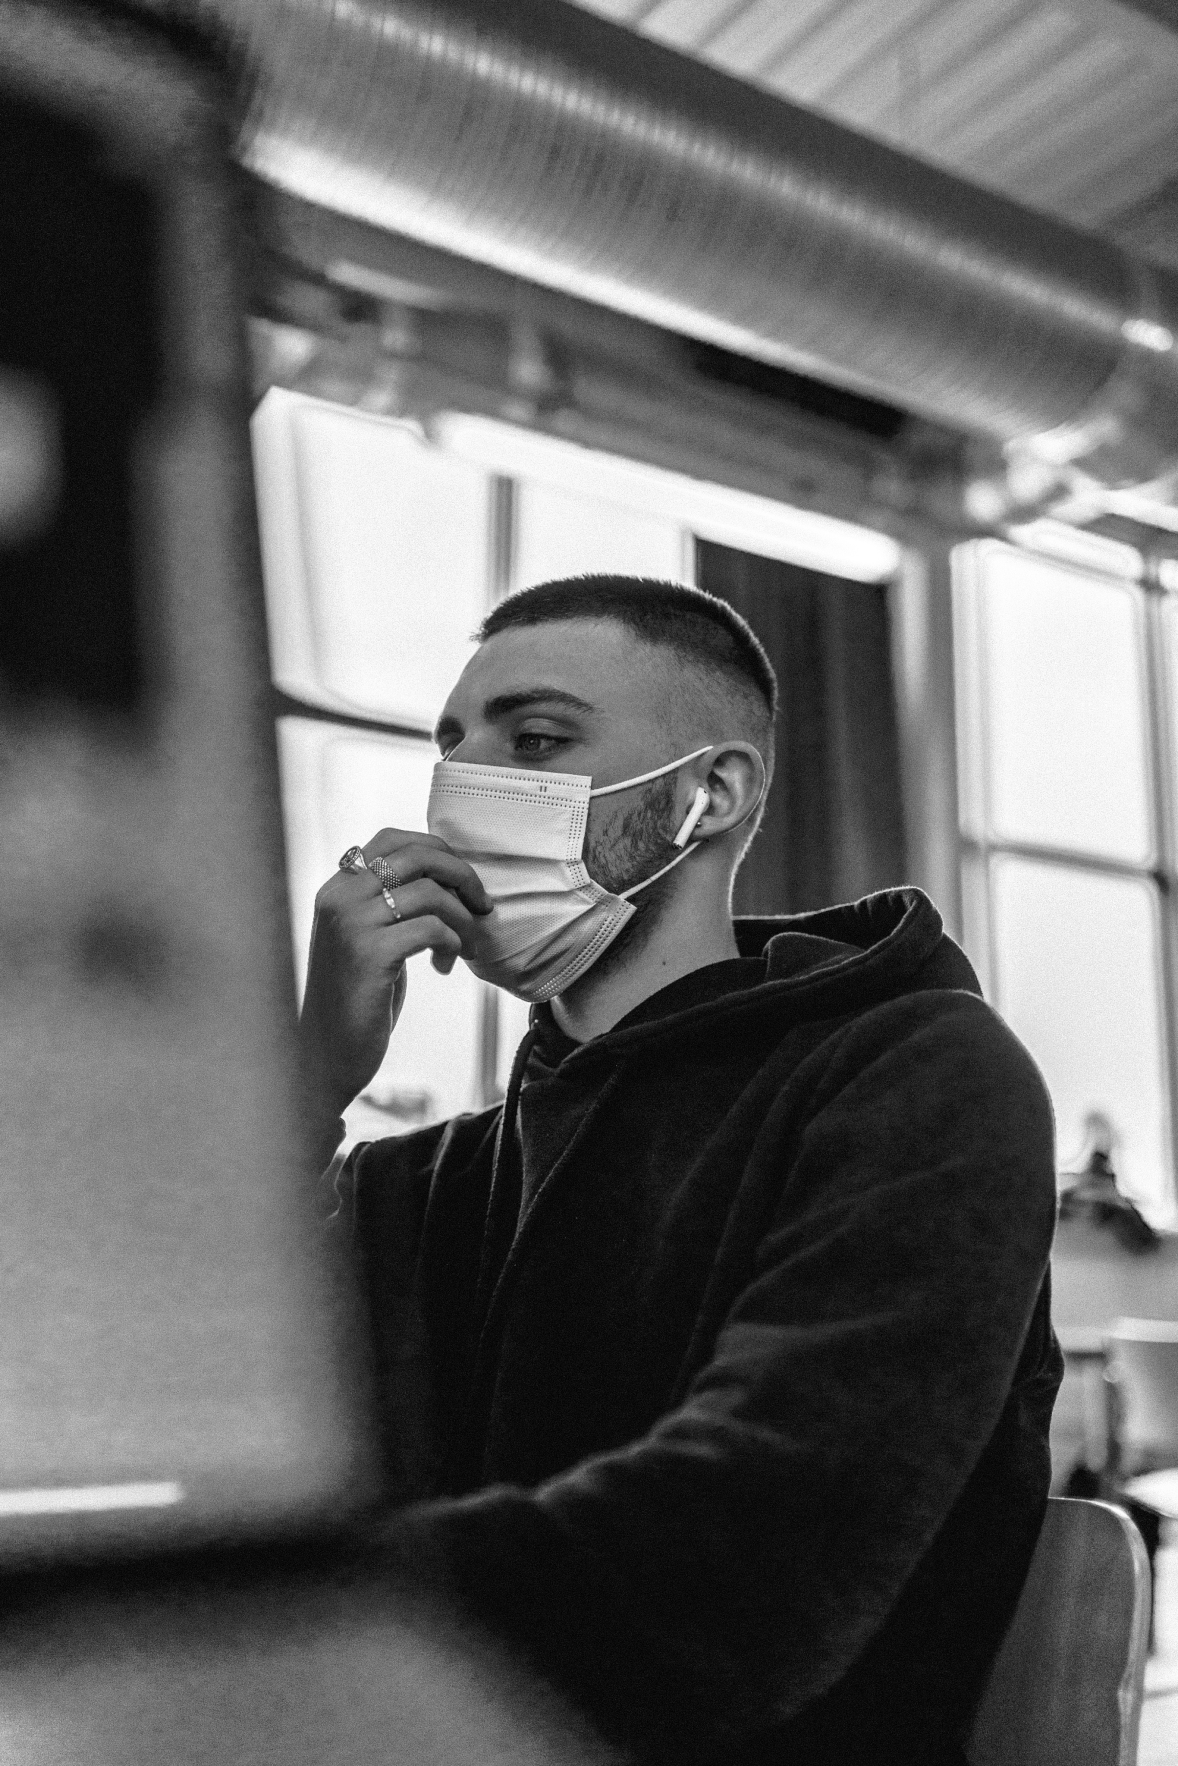
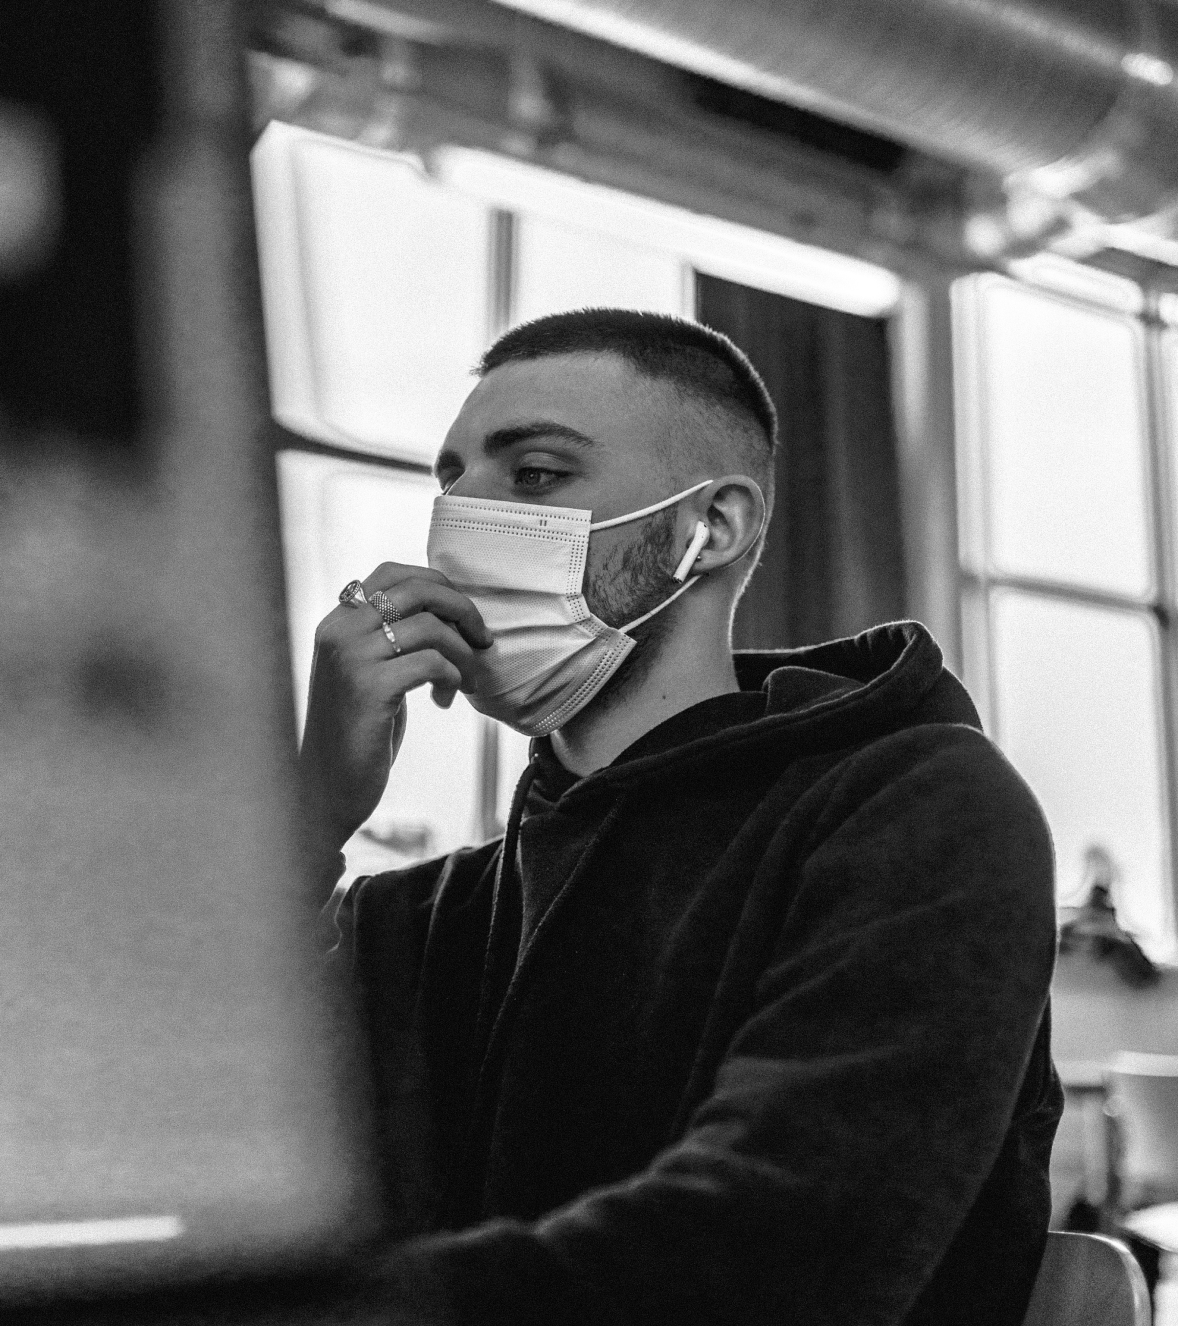
About Page

diff --git a/components/About-Box.vue b/components/About-Box.vue
@@ -1,55 +1,63 @@
 <template>
 
-  <div class="mt-5">
+  <div class="mt-5 container">
 
     <b-row align-v="stretch" class="bg-secondary">
-      <b-col cols="5" >
 
-        <div class="bg-primary photo">CIAO</div>
+      <b-col cols="5" class="p-0">
+        PRIMA BLOCCO
+      </b-col>
+
+      <b-col cols="7" class="bg-white">
+
+        <b-row>
+
+          <b-col cols="8" class="bg-primary square">
+            BOVISA
+          </b-col>
+
+          <b-col cols="4" class="bg-danger square">
+            PORTA ROMANA
+          </b-col>
+
+
+        </b-row>
+
+        <b-row>
+
+          <b-col cols="2" class="bg-warning p-0">
+            <div class="socialbox m-2 "> <img src="~static/images/aboutme/mail.svg" /> </div>
+          </b-col>
+
+          <b-col cols="2" class="bg-warning p-0">
+            <div class="socialbox m-2 "> <img src="~static/images/aboutme/linkedin.svg" /> </div>
+          </b-col>
+
+          <b-col cols="2" class="bg-warning p-0">
+            <div class="socialbox m-2 "> <img src="~static/images/aboutme/github.svg" /> </div>
+          </b-col>
+
+          <b-col cols="2" class="bg-warning p-0">
+            <div class="socialbox m-2 "> <img src="~static/images/aboutme/telegram.svg" /> </div>
+          </b-col>
+
+          <b-col cols="2" class="bg-warning p-0">
+            <div class="socialbox m-2 "> <img src="~static/images/aboutme/instagram.svg" /> </div>
+          </b-col>
+
+          <b-col cols="2" class="bg-warning p-0">
+            <div class="socialbox m-2 "> <img src="~static/images/aboutme/github.svg" /> </div>
+          </b-col>
+
+
+
+        </b-row>
 
       </b-col>
 
 
-      <b-col class="photo">
-
-        <b-row class="bg-primary" style="height: 65%; " >
-          <b-col cols="7" class="bg-white square " >
-            ciao
-          </b-col>
-
-          <b-col cols="" class="bg-white square ">
-            ciao
-          </b-col>
-        </b-row>
-
-        <b-row class="bg-danger" style="height: 35%" >
-          <b-col cols="" class="bg-white square">
-            BELLA BRO
-          </b-col>
-
-          <b-col cols="" class="bg-white square">
-            <h4>ottobre</h4>
-            milo, filo mari, sicci
-
-          </b-col>
-
-          <b-col cols="" class="bg-white square">
-            ciao
-          </b-col>
-
-          <b-col cols="" class="bg-white square ">
-            ciao
-          </b-col>
-
-          <b-col cols="" class="bg-white square">
-            ciao
-          </b-col>
-
-        </b-row>
 
 
-
-      </b-col>
     </b-row>
 
   </div>
@@ -62,18 +70,31 @@ export default {
 }
 </script>
 
-<style scoped>
+<style scoped lang="scss">
 
-.photo{
+.photo {
   border: 1px solid;
-  height: 400px;
 }
 
-.square{
+.socialbox {
+  border-radius: 20px;
+  overflow: hidden;
 
-  width: 100%;
-  box-sizing: border-box;
-  border-radius: 30px;
 }
+
+.socialbox img {
+  object-fit: contain;
+  transition: transform 0.3s ease-in-out;
+  cursor: pointer;
+  max-width: 100%;
+
+  &:hover {
+
+    transform: scale(1.07);
+
+  }
+
+}
+
 
 </style>

diff --git a/components/About-CV.vue b/components/About-CV.vue
@@ -86,10 +86,10 @@
           text="HTML, CSS, Javascript, Wordpress "
         />
 
-        <h4 class="gradient mt-5">
+        <h4 class="gradient mt-5 ">
           <b-icon class="mr-2" shift-v="-3" icon="arrow-down-right-circle-fill"
                   style="width: 35px; height: 35px; color: #FF6E60"></b-icon>
-          Download CV
+          <span class="hover-underline-animation gradient downloadcv"> Download CV </span>
         </h4>
 
 
@@ -109,6 +109,8 @@ export default {
 </script>
 
 <style scoped>
+
+
 
 
 </style>

diff --git a/components/AboutPhoto.vue b/components/AboutPhoto.vue
@@ -1,8 +1,8 @@
 <template>
 
-  <div class="projectcover my-4">
+  <div class="aboutmephoto my-4">
 
-    <img :src="aboutphoto">
+    <img src="~static/images/aboutme/aboutme.png" />
 
   </div>
 
@@ -17,6 +17,15 @@ export default {
 
 <style scoped>
 
+.aboutmephoto{
+  border-radius: 30px;
+  overflow: hidden;
+  height: 350px;
+}
 
+.aboutmephoto img{
+  width: 100%;
+  object-fit: cover;
+}
 
 </style>

diff --git a/components/Project-Cover.vue b/components/Project-Cover.vue
@@ -4,6 +4,7 @@
 
 <img :src="cover">
 
+
   </div>
 
 </template>
@@ -32,12 +33,12 @@ export default {
 
   .projectcover{
     border-radius: 20px;
-    height: 250px;
+    height: 500px;
   }
 
   .projectcover img{
     height: 100%;
-    object-fit: cover;
+    object-fit: contain;
   }
 
 }

diff --git a/pages/it-back.vue b/pages/it-back.vue
@@ -17,7 +17,7 @@
   link="Project Website"/>
 
     <Project-Cover
-      cover=""
+      cover="https://github.com/giovanniclericetti/giovanniclericetti.github.io/blob/master/static/images/it-back/it-back_cover.png?raw=true"
     />
 
     <ProjectDescription

diff --git a/pages/about.vue b/pages/about.vue
@@ -23,8 +23,6 @@ But now ... come on, I'll let my projects do some of the talking!
 
     <AboutPhoto
       class="d-md-none"
-      aboutphoto=""
-
     />
 
     <About-Box class="d-md-block d-none" />

diff --git a/components/About-Intro.vue b/components/About-Intro.vue
@@ -22,7 +22,7 @@ export default {
 <style>
 
 .description{
-  max-width: 75%;
+  max-width: 85%;
   line-height: 120%;
 }
 
